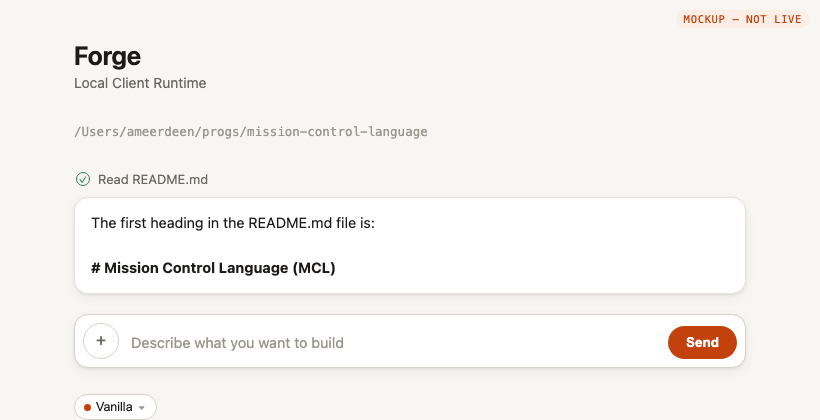
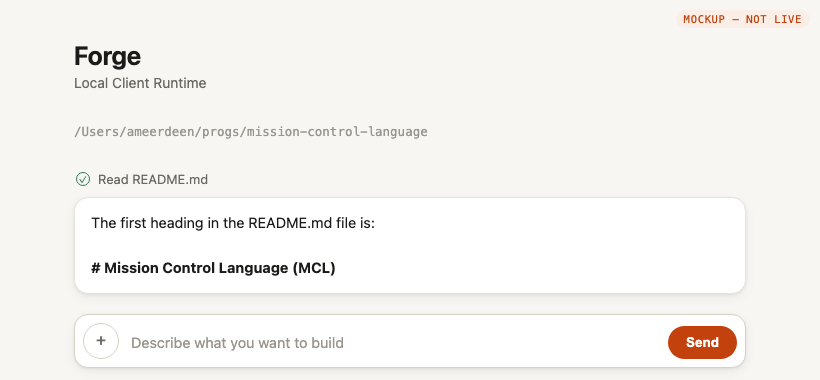
Client Runtime Task 3: forge.css visual polish
Composer + menu, per-tool tool-call copy with running/done glyphs updating
in place, and a card-styled response - independently re-verified live
against the real Docker Mission Runtime (build clean, 434 tests pass, real
tool-call round trip screenshotted).

Also fixes the target mockup itself: it previously showed a mission-picker
chip that was explicitly out of Task 3's scope (belongs to Phase 43.3).
Removed from the image, not just annotated around, since the image is read
directly as spoke content.

diff --git a/src/ForgeMission.ClientRuntime/wwwroot/css/client-runtime.css b/src/ForgeMission.ClientRuntime/wwwroot/css/client-runtime.css
@@ -1,22 +1,188 @@
 .client-runtime-shell {
   min-height: 100vh;
-  padding: var(--space-5);
+  padding: var(--space-6) var(--space-5);
 }
 
 .client-runtime-header {
-  margin-bottom: var(--space-5);
+  margin: 0 auto var(--space-6);
+  max-width: 720px;
 }
 
 .client-runtime-header h1 {
   margin: 0;
+  font-size: 26px;
 }
 
 .client-runtime-header p,
-.client-runtime-status {
+.client-runtime-status,
+.client-runtime-workspace,
+.client-runtime-tool-call {
   color: var(--text-muted);
+}
+
+.client-runtime-header p {
+  margin-top: var(--space-1);
 }
 
 .client-runtime-main {
   display: grid;
   gap: var(--space-3);
+  margin: 0 auto;
+  max-width: 720px;
+}
+
+.client-runtime-workspace {
+  font-family: var(--font-mono);
+  font-size: 13px;
+  overflow: hidden;
+  text-overflow: ellipsis;
+  white-space: nowrap;
+}
+
+.client-runtime-tool-call-list {
+  display: grid;
+  gap: var(--space-2);
+  list-style: none;
+}
+
+.client-runtime-tool-call {
+  align-items: center;
+  display: flex;
+  font-size: 12px;
+  gap: var(--space-2);
+  line-height: 1.4;
+}
+
+.client-runtime-tool-call-glyph {
+  align-items: center;
+  display: inline-flex;
+  flex: 0 0 14px;
+  height: 14px;
+  justify-content: center;
+  width: 14px;
+}
+
+.client-runtime-tool-call-glyph--running {
+  border: 1px dashed var(--text-muted);
+  border-radius: var(--radius-pill);
+}
+
+.client-runtime-tool-call-glyph--done {
+  color: var(--success);
+  font-size: 13px;
+  font-weight: 600;
+}
+
+.client-runtime-response-card {
+  background: var(--surface);
+  border: 1px solid var(--border);
+  border-radius: var(--radius-lg);
+  box-shadow: var(--shadow);
+  padding: var(--space-4);
+}
+
+.client-runtime-response {
+  color: var(--text);
+  line-height: 1.65;
+  white-space: pre-wrap;
+}
+
+.client-runtime-composer {
+  align-items: end;
+  background: var(--surface);
+  border: 1px solid var(--border-strong);
+  border-radius: var(--radius-lg);
+  box-shadow: var(--shadow-sm);
+  display: flex;
+  gap: var(--space-2);
+  padding: var(--space-2);
+}
+
+.client-runtime-add-menu {
+  align-self: center;
+  position: relative;
+}
+
+.client-runtime-add-button {
+  align-items: center;
+  background: var(--surface);
+  border: 1px solid var(--border-strong);
+  border-radius: var(--radius-pill);
+  color: var(--text-muted);
+  cursor: pointer;
+  display: inline-flex;
+  font-family: inherit;
+  font-size: 20px;
+  height: 36px;
+  justify-content: center;
+  line-height: 1;
+  transition: background var(--transition), border-color var(--transition), color var(--transition);
+  width: 36px;
+}
+
+.client-runtime-add-button:hover,
+.client-runtime-add-button[aria-expanded="true"] {
+  background: var(--accent-soft);
+  border-color: var(--accent);
+  color: var(--accent);
+}
+
+.client-runtime-add-flyout {
+  background: var(--surface);
+  border: 1px solid var(--border);
+  border-radius: var(--radius);
+  bottom: calc(100% + var(--space-2));
+  box-shadow: var(--shadow-lg);
+  left: 0;
+  min-width: 152px;
+  padding: var(--space-1);
+  position: absolute;
+  z-index: 1;
+}
+
+.client-runtime-add-flyout button {
+  background: transparent;
+  border: 0;
+  border-radius: var(--radius-sm);
+  color: var(--text);
+  cursor: pointer;
+  display: block;
+  font-family: inherit;
+  font-size: 13px;
+  padding: var(--space-2) var(--space-3);
+  text-align: left;
+  width: 100%;
+}
+
+.client-runtime-add-flyout button:hover {
+  background: var(--accent-soft);
+  color: var(--accent);
+}
+
+.client-runtime-prompt {
+  background: transparent;
+  border: 0;
+  color: var(--text);
+  flex: 1;
+  font-family: inherit;
+  font-size: 15px;
+  line-height: 1.45;
+  min-height: 36px;
+  outline: none;
+  padding: var(--space-2) 0;
+  resize: none;
+}
+
+.client-runtime-prompt::placeholder {
+  color: var(--text-subtle);
+}
+
+.client-runtime-send {
+  flex: 0 0 auto;
+  height: 36px;
+  padding: 0 var(--space-4);
+}
+
+.client-runtime-status {
+  font-size: 13px;
 }

diff --git a/docs/phases/phase-43.2-electron-forge-desktop-shell.md b/docs/phases/phase-43.2-electron-forge-desktop-shell.md
@@ -173,16 +173,17 @@ as it was scoped under Avalonia.
    points) didn't change with the framework, only how it's verified (browser tooling, not Avalonia
    DevTools MCP — see that doc's updated tooling section).
 
-   **Target mockup (2026-07-31):**
+   **Target mockup (2026-07-31, revised same day):**
    ![Task 3 target — forge.css tokens, tool-call indicator, folder-open + menu](../images/phase-43.2/task3-electron-visual-polish-after.png)
    Real `forge.css` tokens applied to the actual current page (not a redrawn layout): styled header,
    a `+` composer menu replacing the standalone "Add folder" button, a done tool-call row
-   (`✓ Read README.md`), and the response in a proper card. Also shown: a mission-picker chip
-   (`Vanilla`, with `Claude`/`Grok` as alternatives) in the same visual slot a model picker would
-   occupy — **that piece belongs to [43.3](phase-43.3-mission-attach-point.md)'s scope, not this
-   task's**; it's included in the mockup for a shared visual reference, not as a Task 3 deliverable.
-   Caught and fixed two real CSS bugs (a header/subtitle overlap, a flyout with no closed state) by
-   actually screenshotting the mockup rather than trusting the source — see
+   (`✓ Read README.md`), and the response in a proper card. This image intentionally shows **only**
+   Task 3's scope — an earlier version of this same image also showed a mission-picker chip
+   (belonging to [43.3](phase-43.3-mission-attach-point.md), not this task); it was removed from the
+   image itself, not just annotated around, once it was clear that image is read directly as part of
+   this spoke and any element it shows can be read as something to build. Caught and fixed two real
+   CSS bugs (a header/subtitle overlap, a flyout with no closed state) by actually screenshotting the
+   mockup rather than trusting the source — see
    [verification tooling gotchas](../design/desktop-interaction-principles.md#verified-gotchas-2026-07-31--read-before-re-discovering-these)
    for the headless-Chrome method used to produce this image and the Electron/`file://`
    verification-tool limitations it works around.
